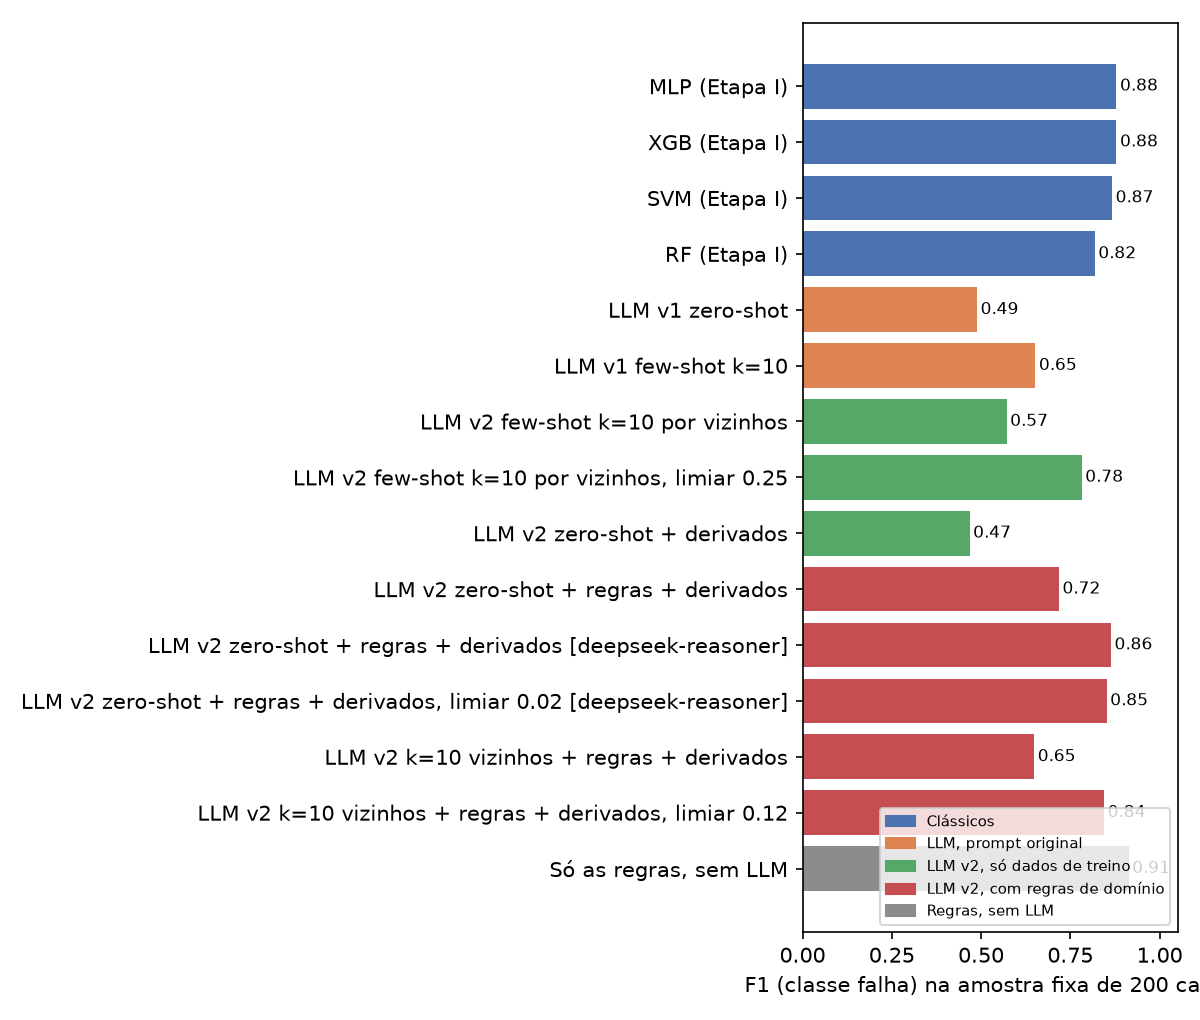
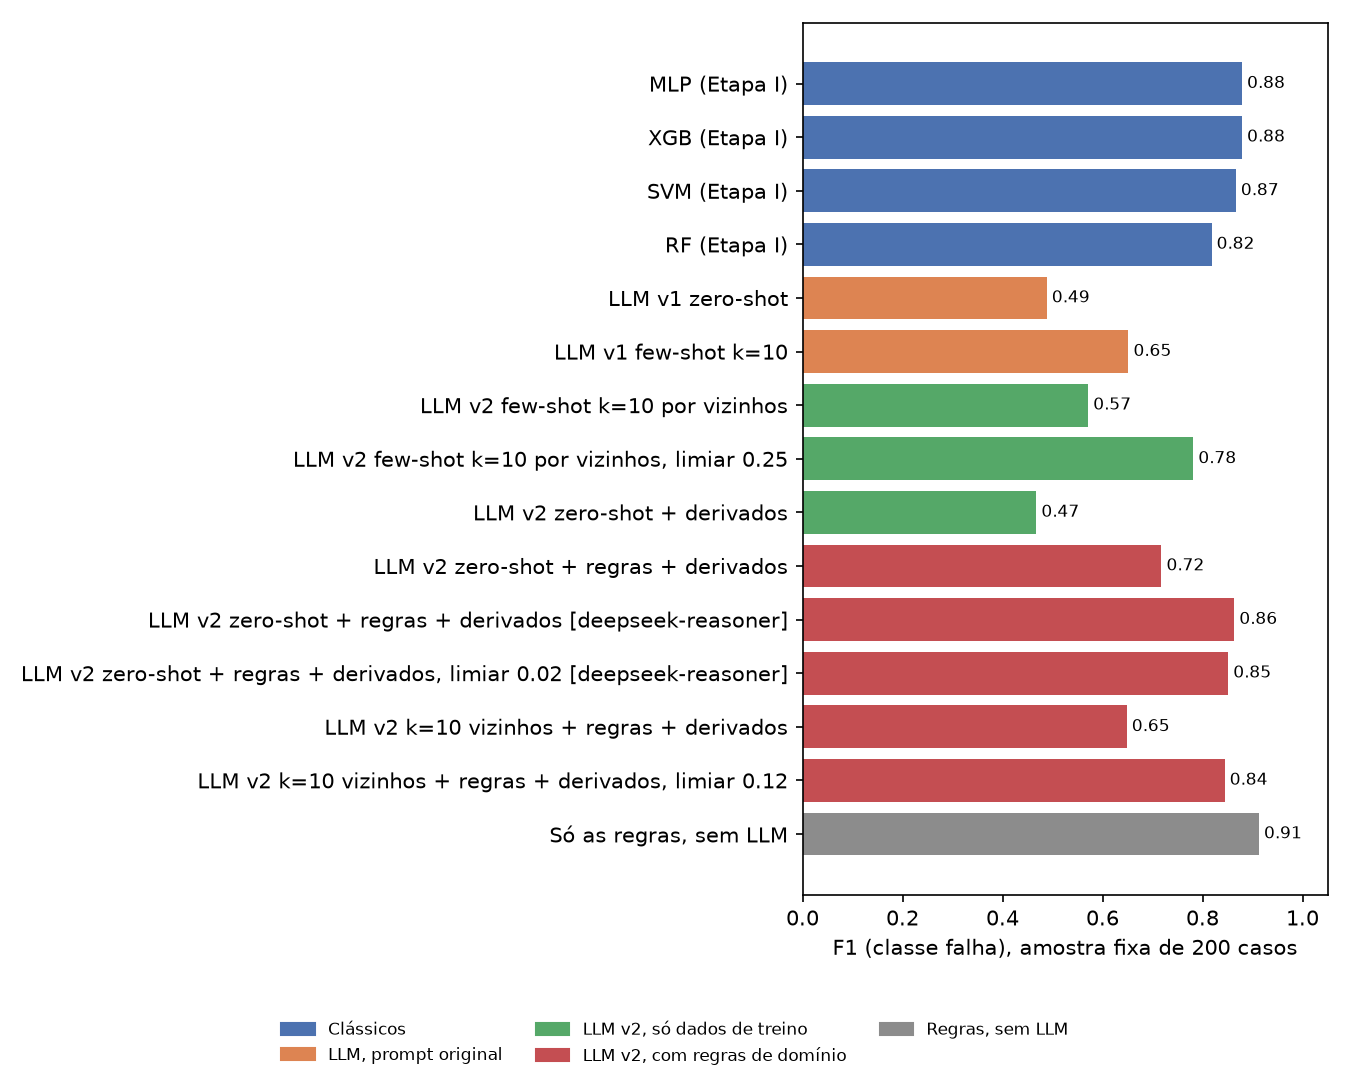
Adiciona figura-resumo e corrige a legenda do gráfico extra

diff --git a/src/compare.py b/src/compare.py
@@ -6,11 +6,69 @@ import matplotlib
 matplotlib.use("Agg")
 import matplotlib.pyplot as plt
 import pandas as pd
+from matplotlib.patches import Patch
 
 from src import config as C
 
 COLS = ["stage", "model", "setting", "accuracy", "precision", "recall", "f1", "roc_auc",
         "time_per_100_s", "cost_usd"]
+
+# cores validadas para daltonismo (azul, laranja, verde-água) e cinza para a referência
+GROUPS = {
+    "Clássico": "#257de0",
+    "LLM, prompt simples": "#f47230",
+    "LLM, prompt melhorado": "#00b894",
+    "Referência": "#9a9a9a",
+}
+INK, INK2 = "#191919", "#666666"
+
+
+def plot_headline(base: pd.DataFrame) -> None:
+    """Figura do README: o melhor de cada abordagem."""
+    cls = base[(base["stage"] == "I") & (base["setting"] == "balance=smote")]
+    best = cls["f1"].max()
+    names = " / ".join(m.upper() for m in cls.loc[cls["f1"] == best, "model"])
+    llm = base[base["stage"] == "II"]
+    fs = llm[llm["setting"] != "zero-shot"].sort_values("f1").iloc[-1]
+    bars = [
+        (f"Clássico ({names})", best, "Clássico"),
+        ("LLM zero-shot", llm.loc[llm["setting"] == "zero-shot", "f1"].iloc[0], "LLM, prompt simples"),
+        (f"LLM few-shot ({fs['setting'].split('=')[1]} exemplos)", fs["f1"], "LLM, prompt simples"),
+    ]
+    extra = C.RESULTS / "extra" / "summary_extra.csv"
+    if extra.exists():
+        ex = pd.read_csv(extra)
+        llm2 = ex[ex["stage"] == "II-extra"]
+        no_dom = llm2[~llm2["domain_knowledge"]]["f1"].max()
+        dom = llm2[llm2["domain_knowledge"]]["f1"].max()
+        rules = ex.loc[ex["setting"] == "regras sem LLM", "f1"].iloc[0]
+        bars += [
+            ("LLM com exemplos vizinhos", no_dom, "LLM, prompt melhorado"),
+            ("LLM com regras de falha no prompt", dom, "LLM, prompt melhorado"),
+            ("Só as regras de falha, sem modelo", rules, "Referência"),
+        ]
+
+    labels, vals, groups = zip(*bars, strict=True)
+    fig, ax = plt.subplots(figsize=(8, 0.42 * len(bars) + 1.3))
+    ax.barh(labels, vals, height=0.5, color=[GROUPS[g] for g in groups])
+    for i, v in enumerate(vals):
+        ax.text(v + 0.012, i, f"{v:.2f}".replace(".", ","), va="center", fontsize=10, color=INK)
+    ax.invert_yaxis()
+    ax.set_xlim(0, 1.05)
+    ax.set_xticks([])
+    for side in ("top", "right", "bottom"):
+        ax.spines[side].set_visible(False)
+    ax.spines["left"].set_color("#d0d0d0")
+    ax.tick_params(axis="y", length=0, labelsize=10, labelcolor=INK)
+    ax.set_title("F1 na detecção de falhas: 200 ciclos de teste, 50 com falha",
+                 loc="left", fontsize=11, color=INK, pad=10)
+    used = list(dict.fromkeys(groups))
+    fig.legend(handles=[Patch(color=GROUPS[g], label=g) for g in used], ncol=len(used),
+               loc="lower center", frameon=False, fontsize=8, labelcolor=INK2,
+               handlelength=1, columnspacing=1.5)
+    fig.tight_layout(rect=(0, 0.07, 1, 1))
+    fig.savefig(C.FIGURES / "resumo_f1.png", dpi=150, facecolor="white")
+    plt.close(fig)
 
 
 def main() -> None:
@@ -43,6 +101,8 @@ def main() -> None:
     fig.tight_layout()
     C.FIGURES.mkdir(parents=True, exist_ok=True)
     fig.savefig(C.FIGURES / "comparison_f1.png", dpi=150)
+    plt.close(fig)
+    plot_headline(df)
     print(f"\nSalvo em {out.relative_to(C.ROOT)} e {(C.FIGURES / 'comparison_f1.png').relative_to(C.ROOT)}")
 
 

diff --git a/src/run_llm_extra.py b/src/run_llm_extra.py
@@ -156,20 +156,20 @@ def plot() -> None:
             items.append(("Só as regras, sem LLM", r["f1"], "#8C8C8C"))
 
     labels, vals, colors = zip(*items, strict=True)
-    fig, ax = plt.subplots(figsize=(8, 0.36 * len(items) + 1.4))
+    fig, ax = plt.subplots(figsize=(9, 0.36 * len(items) + 1.8))
     ax.barh(labels, vals, color=colors)
     for i, val in enumerate(vals):
         ax.text(val + 0.01, i, f"{val:.2f}", va="center", fontsize=8)
     ax.invert_yaxis()
     ax.set_xlim(0, 1.05)
-    ax.set_xlabel("F1 (classe falha) na amostra fixa de 200 casos")
-    ax.legend(handles=[Patch(color="#4C72B0", label="Clássicos"),
-                       Patch(color="#DD8452", label="LLM, prompt original"),
-                       Patch(color="#55A868", label="LLM v2, só dados de treino"),
-                       Patch(color="#C44E52", label="LLM v2, com regras de domínio"),
-                       Patch(color="#8C8C8C", label="Regras, sem LLM")],
-              loc="lower right", fontsize=7)
-    fig.tight_layout()
+    ax.set_xlabel("F1 (classe falha), amostra fixa de 200 casos")
+    fig.legend(handles=[Patch(color="#4C72B0", label="Clássicos"),
+                        Patch(color="#DD8452", label="LLM, prompt original"),
+                        Patch(color="#55A868", label="LLM v2, só dados de treino"),
+                        Patch(color="#C44E52", label="LLM v2, com regras de domínio"),
+                        Patch(color="#8C8C8C", label="Regras, sem LLM")],
+               loc="lower center", ncol=3, frameon=False, fontsize=8)
+    fig.tight_layout(rect=(0, 0.09, 1, 1))
     C.FIGURES.mkdir(parents=True, exist_ok=True)
     fig.savefig(C.FIGURES / "extra_f1.png", dpi=150)
     plt.close(fig)
